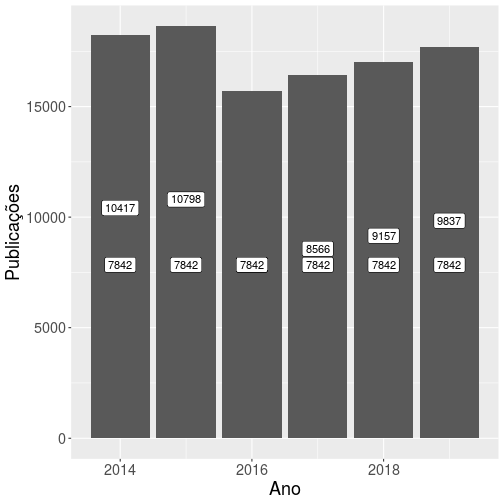
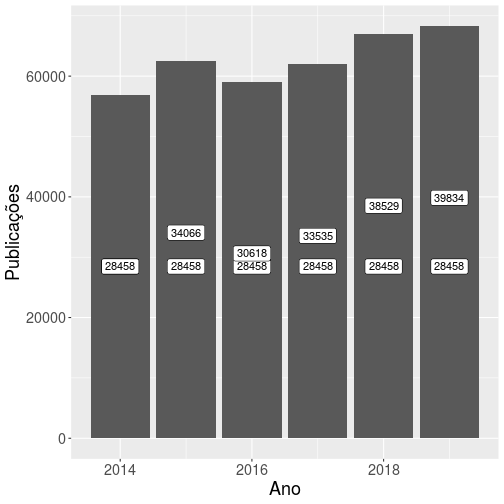
update presentation

diff --git a/lectures/molecular_modeling/index.html b/lectures/molecular_modeling/index.html
@@ -16,7 +16,7 @@ class: center, middle, inverse, title-slide
 ## Apresentação no SIPEX VI
 ### Flaviano Williams Fernandes
 ### Instituto Federal do Paraná - Irati
-### 16 de outubro de 2020 (atualizado em 12/10/2020)
+### 16 de outubro de 2020 (atualizado em 13/10/2020)
 
 ---
 
@@ -130,9 +130,194 @@ class: left, middle
 &lt;/div&gt;
 ]
 .pull-right[
+
+```
+## 
+Rendering [&gt;-----------------------------------------------------------------] at 7.3 fps ~ eta: 13s
+Rendering [=&gt;----------------------------------------------------------------] at 7.2 fps ~ eta: 13s
+Rendering [==&gt;---------------------------------------------------------------] at 7.5 fps ~ eta: 13s
+Rendering [===&gt;--------------------------------------------------------------] at 7.5 fps ~ eta: 12s
+Rendering [====&gt;-------------------------------------------------------------] at 7.6 fps ~ eta: 12s
+Rendering [=====&gt;------------------------------------------------------------] at 7.6 fps ~ eta: 12s
+Rendering [======&gt;-----------------------------------------------------------] at 7.6 fps ~ eta: 12s
+Rendering [=======&gt;----------------------------------------------------------] at 7.6 fps ~ eta: 12s
+Rendering [========&gt;---------------------------------------------------------] at 7.6 fps ~ eta: 11s
+Rendering [=========&gt;--------------------------------------------------------] at 7.6 fps ~ eta: 11s
+Rendering [==========&gt;-------------------------------------------------------] at 7.6 fps ~ eta: 11s
+Rendering [==========&gt;-------------------------------------------------------] at 7.7 fps ~ eta: 11s
+Rendering [===========&gt;------------------------------------------------------] at 7.7 fps ~ eta: 11s
+Rendering [============&gt;-----------------------------------------------------] at 7.7 fps ~ eta: 11s
+Rendering [============&gt;-----------------------------------------------------] at 7.7 fps ~ eta: 10s
+Rendering [=============&gt;----------------------------------------------------] at 7.7 fps ~ eta: 10s
+Rendering [==============&gt;---------------------------------------------------] at 7.6 fps ~ eta: 10s
+Rendering [==============&gt;---------------------------------------------------] at 7.7 fps ~ eta: 10s
+Rendering [===============&gt;--------------------------------------------------] at 7.7 fps ~ eta: 10s
+Rendering [================&gt;-------------------------------------------------] at 7.7 fps ~ eta: 10s
+Rendering [=================&gt;------------------------------------------------] at 7.7 fps ~ eta:  9s
+Rendering [==================&gt;-----------------------------------------------] at 7.7 fps ~ eta:  9s
+Rendering [===================&gt;----------------------------------------------] at 7.7 fps ~ eta:  9s
+Rendering [====================&gt;---------------------------------------------] at 7.7 fps ~ eta:  9s
+Rendering [=====================&gt;--------------------------------------------] at 7.7 fps ~ eta:  9s
+Rendering [======================&gt;-------------------------------------------] at 7.7 fps ~ eta:  8s
+Rendering [=======================&gt;------------------------------------------] at 7.7 fps ~ eta:  8s
+Rendering [========================&gt;-----------------------------------------] at 7.7 fps ~ eta:  8s
+Rendering [=========================&gt;----------------------------------------] at 7.7 fps ~ eta:  8s
+Rendering [==========================&gt;---------------------------------------] at 7.7 fps ~ eta:  8s
+Rendering [===========================&gt;--------------------------------------] at 7.7 fps ~ eta:  8s
+Rendering [===========================&gt;--------------------------------------] at 7.7 fps ~ eta:  7s
+Rendering [============================&gt;-------------------------------------] at 7.7 fps ~ eta:  7s
+Rendering [=============================&gt;------------------------------------] at 7.7 fps ~ eta:  7s
+Rendering [==============================&gt;-----------------------------------] at 7.7 fps ~ eta:  7s
+Rendering [===============================&gt;----------------------------------] at 7.7 fps ~ eta:  7s
+Rendering [================================&gt;---------------------------------] at 7.7 fps ~ eta:  7s
+Rendering [=================================&gt;--------------------------------] at 7.7 fps ~ eta:  6s
+Rendering [=================================&gt;--------------------------------] at 7.6 fps ~ eta:  6s
+Rendering [==================================&gt;-------------------------------] at 7.6 fps ~ eta:  6s
+Rendering [===================================&gt;------------------------------] at 7.6 fps ~ eta:  6s
+Rendering [====================================&gt;-----------------------------] at 7.6 fps ~ eta:  6s
+Rendering [=====================================&gt;----------------------------] at 7.6 fps ~ eta:  6s
+Rendering [=====================================&gt;----------------------------] at 7.6 fps ~ eta:  5s
+Rendering [======================================&gt;---------------------------] at 7.6 fps ~ eta:  5s
+Rendering [=======================================&gt;--------------------------] at 7.6 fps ~ eta:  5s
+Rendering [========================================&gt;-------------------------] at 7.6 fps ~ eta:  5s
+Rendering [=========================================&gt;------------------------] at 7.6 fps ~ eta:  5s
+Rendering [==========================================&gt;-----------------------] at 7.6 fps ~ eta:  5s
+Rendering [===========================================&gt;----------------------] at 7.6 fps ~ eta:  4s
+Rendering [============================================&gt;---------------------] at 7.6 fps ~ eta:  4s
+Rendering [=============================================&gt;--------------------] at 7.6 fps ~ eta:  4s
+Rendering [==============================================&gt;-------------------] at 7.5 fps ~ eta:  4s
+Rendering [===============================================&gt;------------------] at 7.5 fps ~ eta:  4s
+Rendering [================================================&gt;-----------------] at 7.5 fps ~ eta:  3s
+Rendering [=================================================&gt;----------------] at 7.5 fps ~ eta:  3s
+Rendering [==================================================&gt;---------------] at 7.5 fps ~ eta:  3s
+Rendering [===================================================&gt;--------------] at 7.5 fps ~ eta:  3s
+Rendering [====================================================&gt;-------------] at 7.5 fps ~ eta:  3s
+Rendering [=====================================================&gt;------------] at 7.5 fps ~ eta:  2s
+Rendering [======================================================&gt;-----------] at 7.5 fps ~ eta:  2s
+Rendering [=======================================================&gt;----------] at 7.5 fps ~ eta:  2s
+Rendering [========================================================&gt;---------] at 7.5 fps ~ eta:  2s
+Rendering [=========================================================&gt;--------] at 7.4 fps ~ eta:  2s
+Rendering [==========================================================&gt;-------] at 7.4 fps ~ eta:  1s
+Rendering [==========================================================&gt;-------] at 7.5 fps ~ eta:  1s
+Rendering [===========================================================&gt;------] at 7.5 fps ~ eta:  1s
+Rendering [============================================================&gt;-----] at 7.5 fps ~ eta:  1s
+Rendering [============================================================&gt;-----] at 7.4 fps ~ eta:  1s
+Rendering [=============================================================&gt;----] at 7.4 fps ~ eta:  1s
+Rendering [==============================================================&gt;---] at 7.4 fps ~ eta:  1s
+Rendering [===============================================================&gt;--] at 7.4 fps ~ eta:  0s
+Rendering [================================================================&gt;-] at 7.4 fps ~ eta:  0s
+Rendering [==================================================================] at 7.4 fps ~ eta:  0s
+                                                                                                    
+```
+
+```
+## 
+Frame 1 (1%)
+Frame 2 (2%)
+Frame 3 (3%)
+Frame 4 (4%)
+Frame 5 (5%)
+Frame 6 (6%)
+Frame 7 (7%)
+Frame 8 (8%)
+Frame 9 (9%)
+Frame 10 (10%)
+Frame 11 (11%)
+Frame 12 (12%)
+Frame 13 (13%)
+Frame 14 (14%)
+Frame 15 (15%)
+Frame 16 (16%)
+Frame 17 (17%)
+Frame 18 (18%)
+Frame 19 (19%)
+Frame 20 (20%)
+Frame 21 (21%)
+Frame 22 (22%)
+Frame 23 (23%)
+Frame 24 (24%)
+Frame 25 (25%)
+Frame 26 (26%)
+Frame 27 (27%)
+Frame 28 (28%)
+Frame 29 (29%)
+Frame 30 (30%)
+Frame 31 (31%)
+Frame 32 (32%)
+Frame 33 (33%)
+Frame 34 (34%)
+Frame 35 (35%)
+Frame 36 (36%)
+Frame 37 (37%)
+Frame 38 (38%)
+Frame 39 (39%)
+Frame 40 (40%)
+Frame 41 (41%)
+Frame 42 (42%)
+Frame 43 (43%)
+Frame 44 (44%)
+Frame 45 (45%)
+Frame 46 (46%)
+Frame 47 (47%)
+Frame 48 (48%)
+Frame 49 (49%)
+Frame 50 (50%)
+Frame 51 (51%)
+Frame 52 (52%)
+Frame 53 (53%)
+Frame 54 (54%)
+Frame 55 (55%)
+Frame 56 (56%)
+Frame 57 (57%)
+Frame 58 (58%)
+Frame 59 (59%)
+Frame 60 (60%)
+Frame 61 (61%)
+Frame 62 (62%)
+Frame 63 (63%)
+Frame 64 (64%)
+Frame 65 (65%)
+Frame 66 (66%)
+Frame 67 (67%)
+Frame 68 (68%)
+Frame 69 (69%)
+Frame 70 (70%)
+Frame 71 (71%)
+Frame 72 (72%)
+Frame 73 (73%)
+Frame 74 (74%)
+Frame 75 (75%)
+Frame 76 (76%)
+Frame 77 (77%)
+Frame 78 (78%)
+Frame 79 (79%)
+Frame 80 (80%)
+Frame 81 (81%)
+Frame 82 (82%)
+Frame 83 (83%)
+Frame 84 (84%)
+Frame 85 (85%)
+Frame 86 (86%)
+Frame 87 (87%)
+Frame 88 (88%)
+Frame 89 (89%)
+Frame 90 (90%)
+Frame 91 (91%)
+Frame 92 (92%)
+Frame 93 (93%)
+Frame 94 (94%)
+Frame 95 (95%)
+Frame 96 (96%)
+Frame 97 (97%)
+Frame 98 (98%)
+Frame 99 (99%)
+Frame 100 (100%)
+## Finalizing encoding... done!
+```
+
 &lt;div class="figure" style="text-align: center"&gt;
-&lt;img src="index_files/figure-html/unnamed-chunk-6-1.png" alt="Publicações envolvendo as palavras-chave &amp;quot;molecular dynamics&amp;quot; e &amp;quot;monte carlo&amp;quot;." width="58%" /&gt;
-&lt;p class="caption"&gt;Publicações envolvendo as palavras-chave "molecular dynamics" e "monte carlo".&lt;/p&gt;
+&lt;img src="index_files/figure-html/unnamed-chunk-6-1.gif" alt="Publicações envolvendo as palavras-chave &amp;quot;molecular dynamics&amp;quot; &amp;lt;alert&amp;gt;ou&amp;lt;/alert&amp;gt; &amp;quot;monte carlo&amp;quot;."  /&gt;
+&lt;p class="caption"&gt;Publicações envolvendo as palavras-chave "molecular dynamics" &lt;alert&gt;ou&lt;/alert&gt; "monte carlo".&lt;/p&gt;
 &lt;/div&gt;
 ]
 
